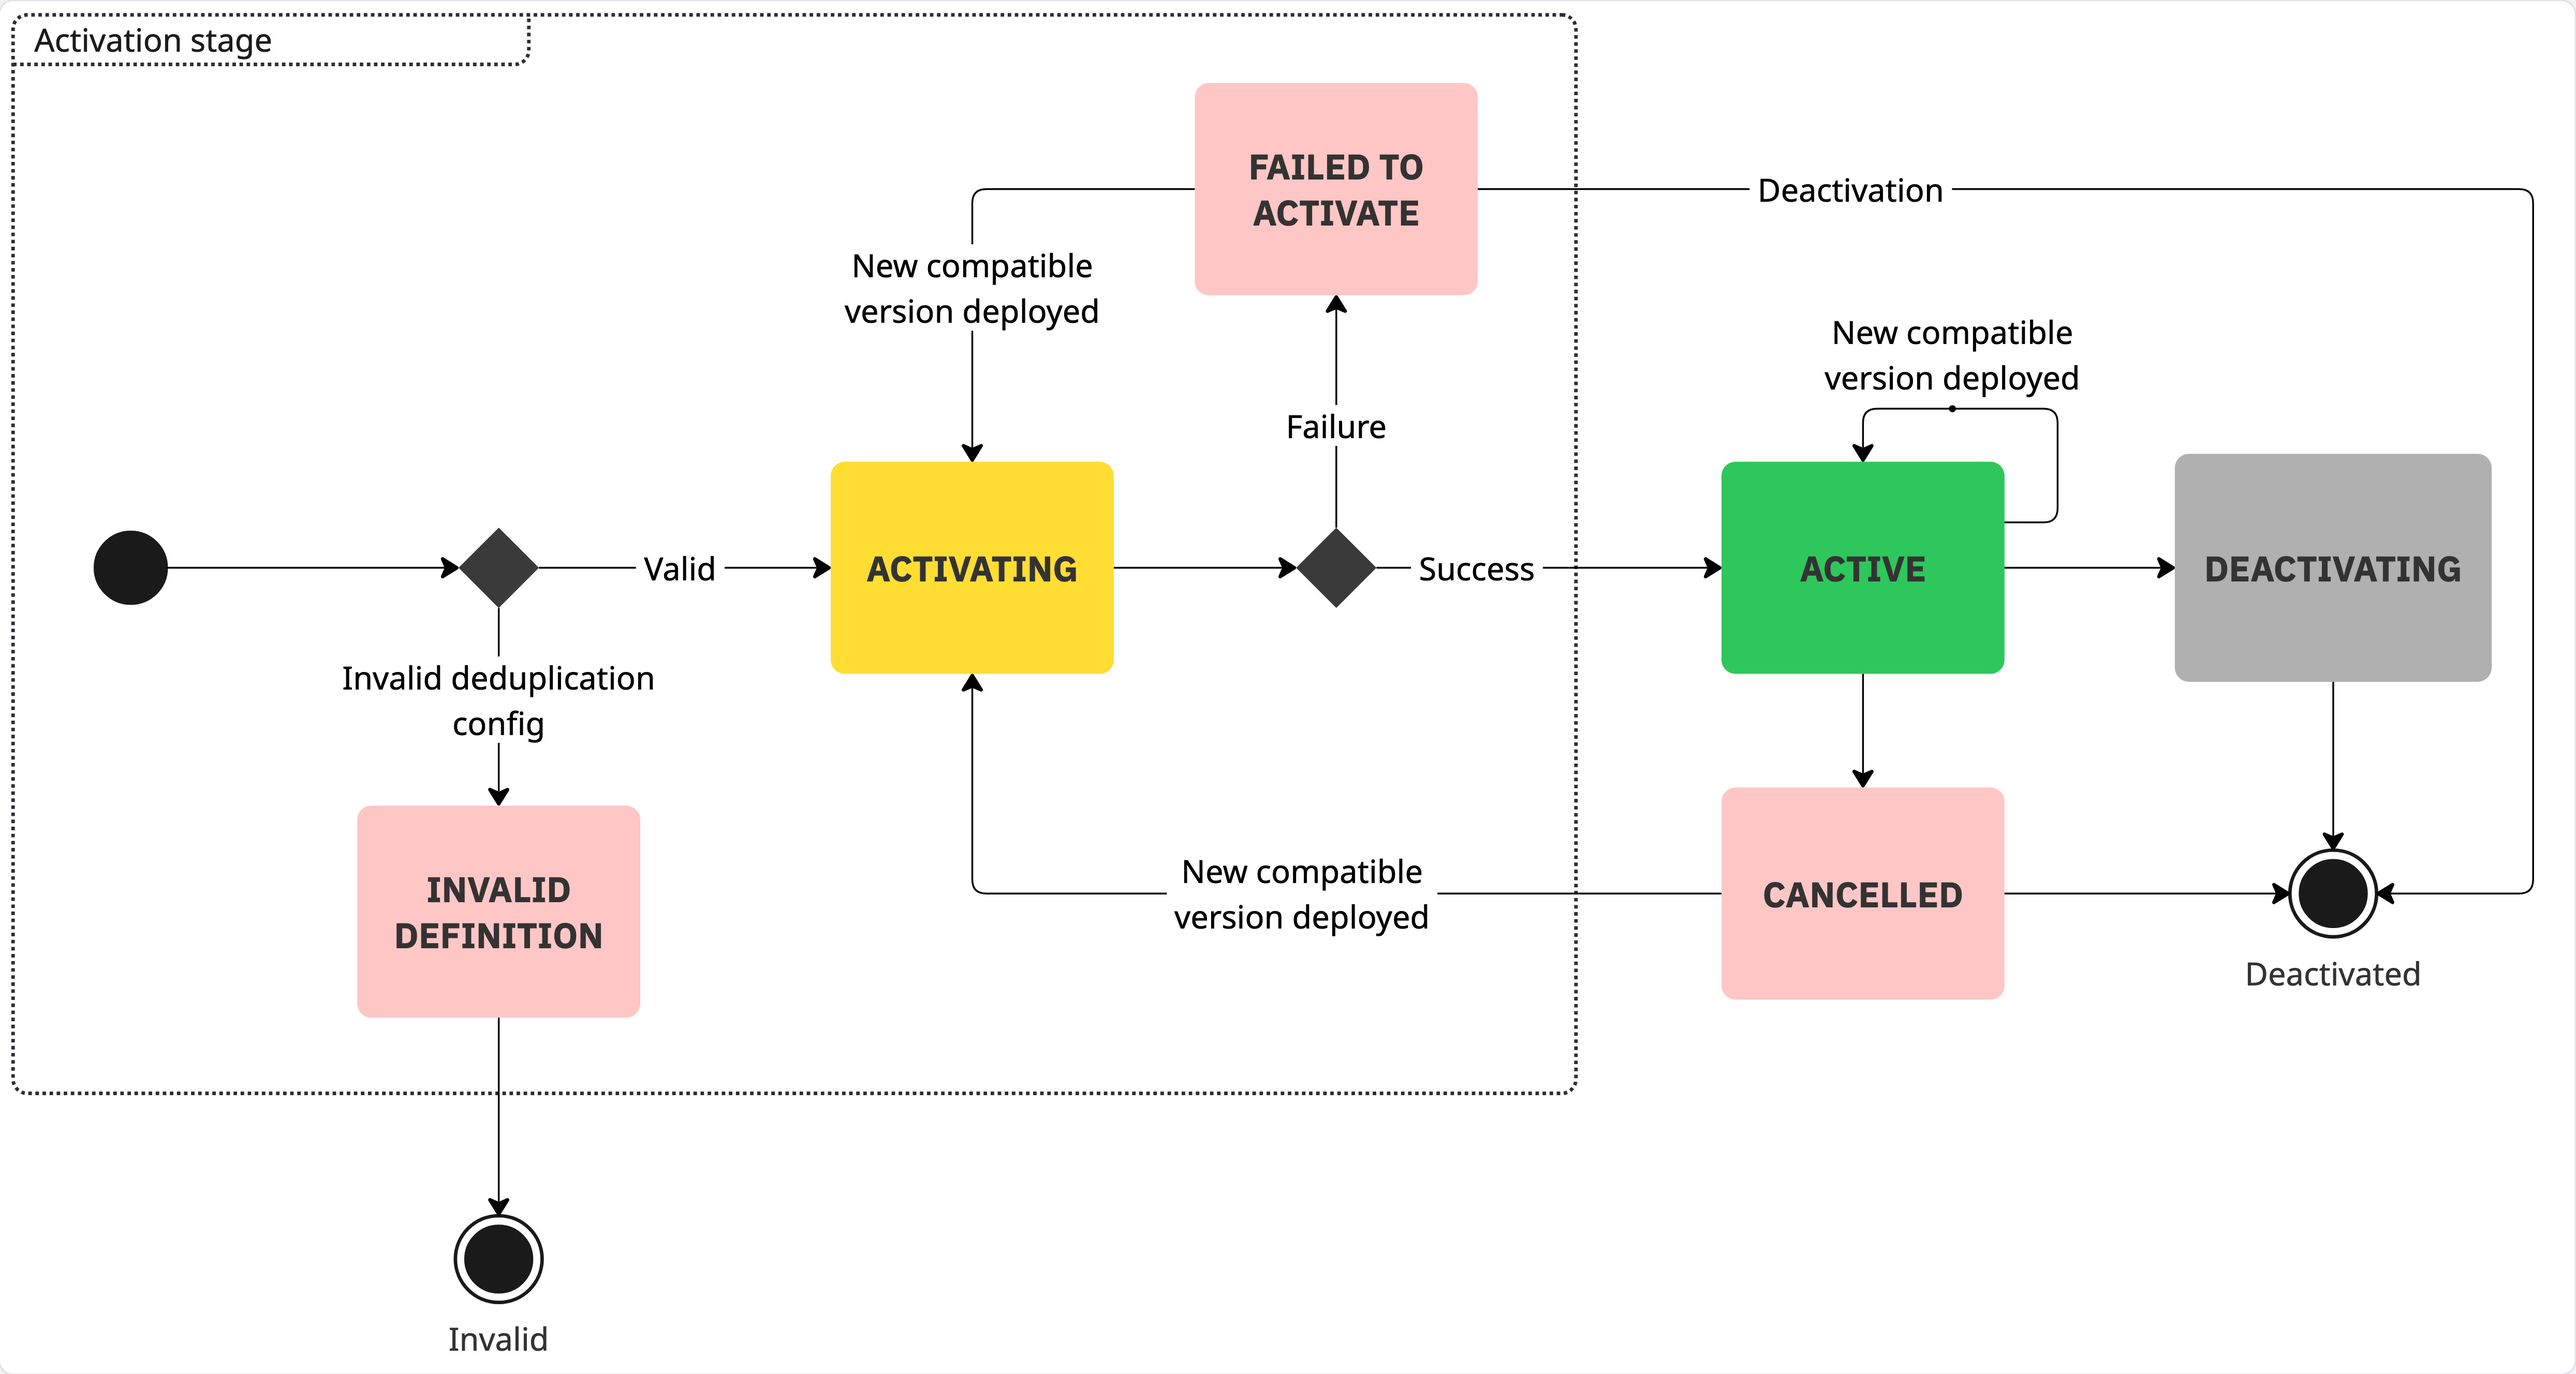
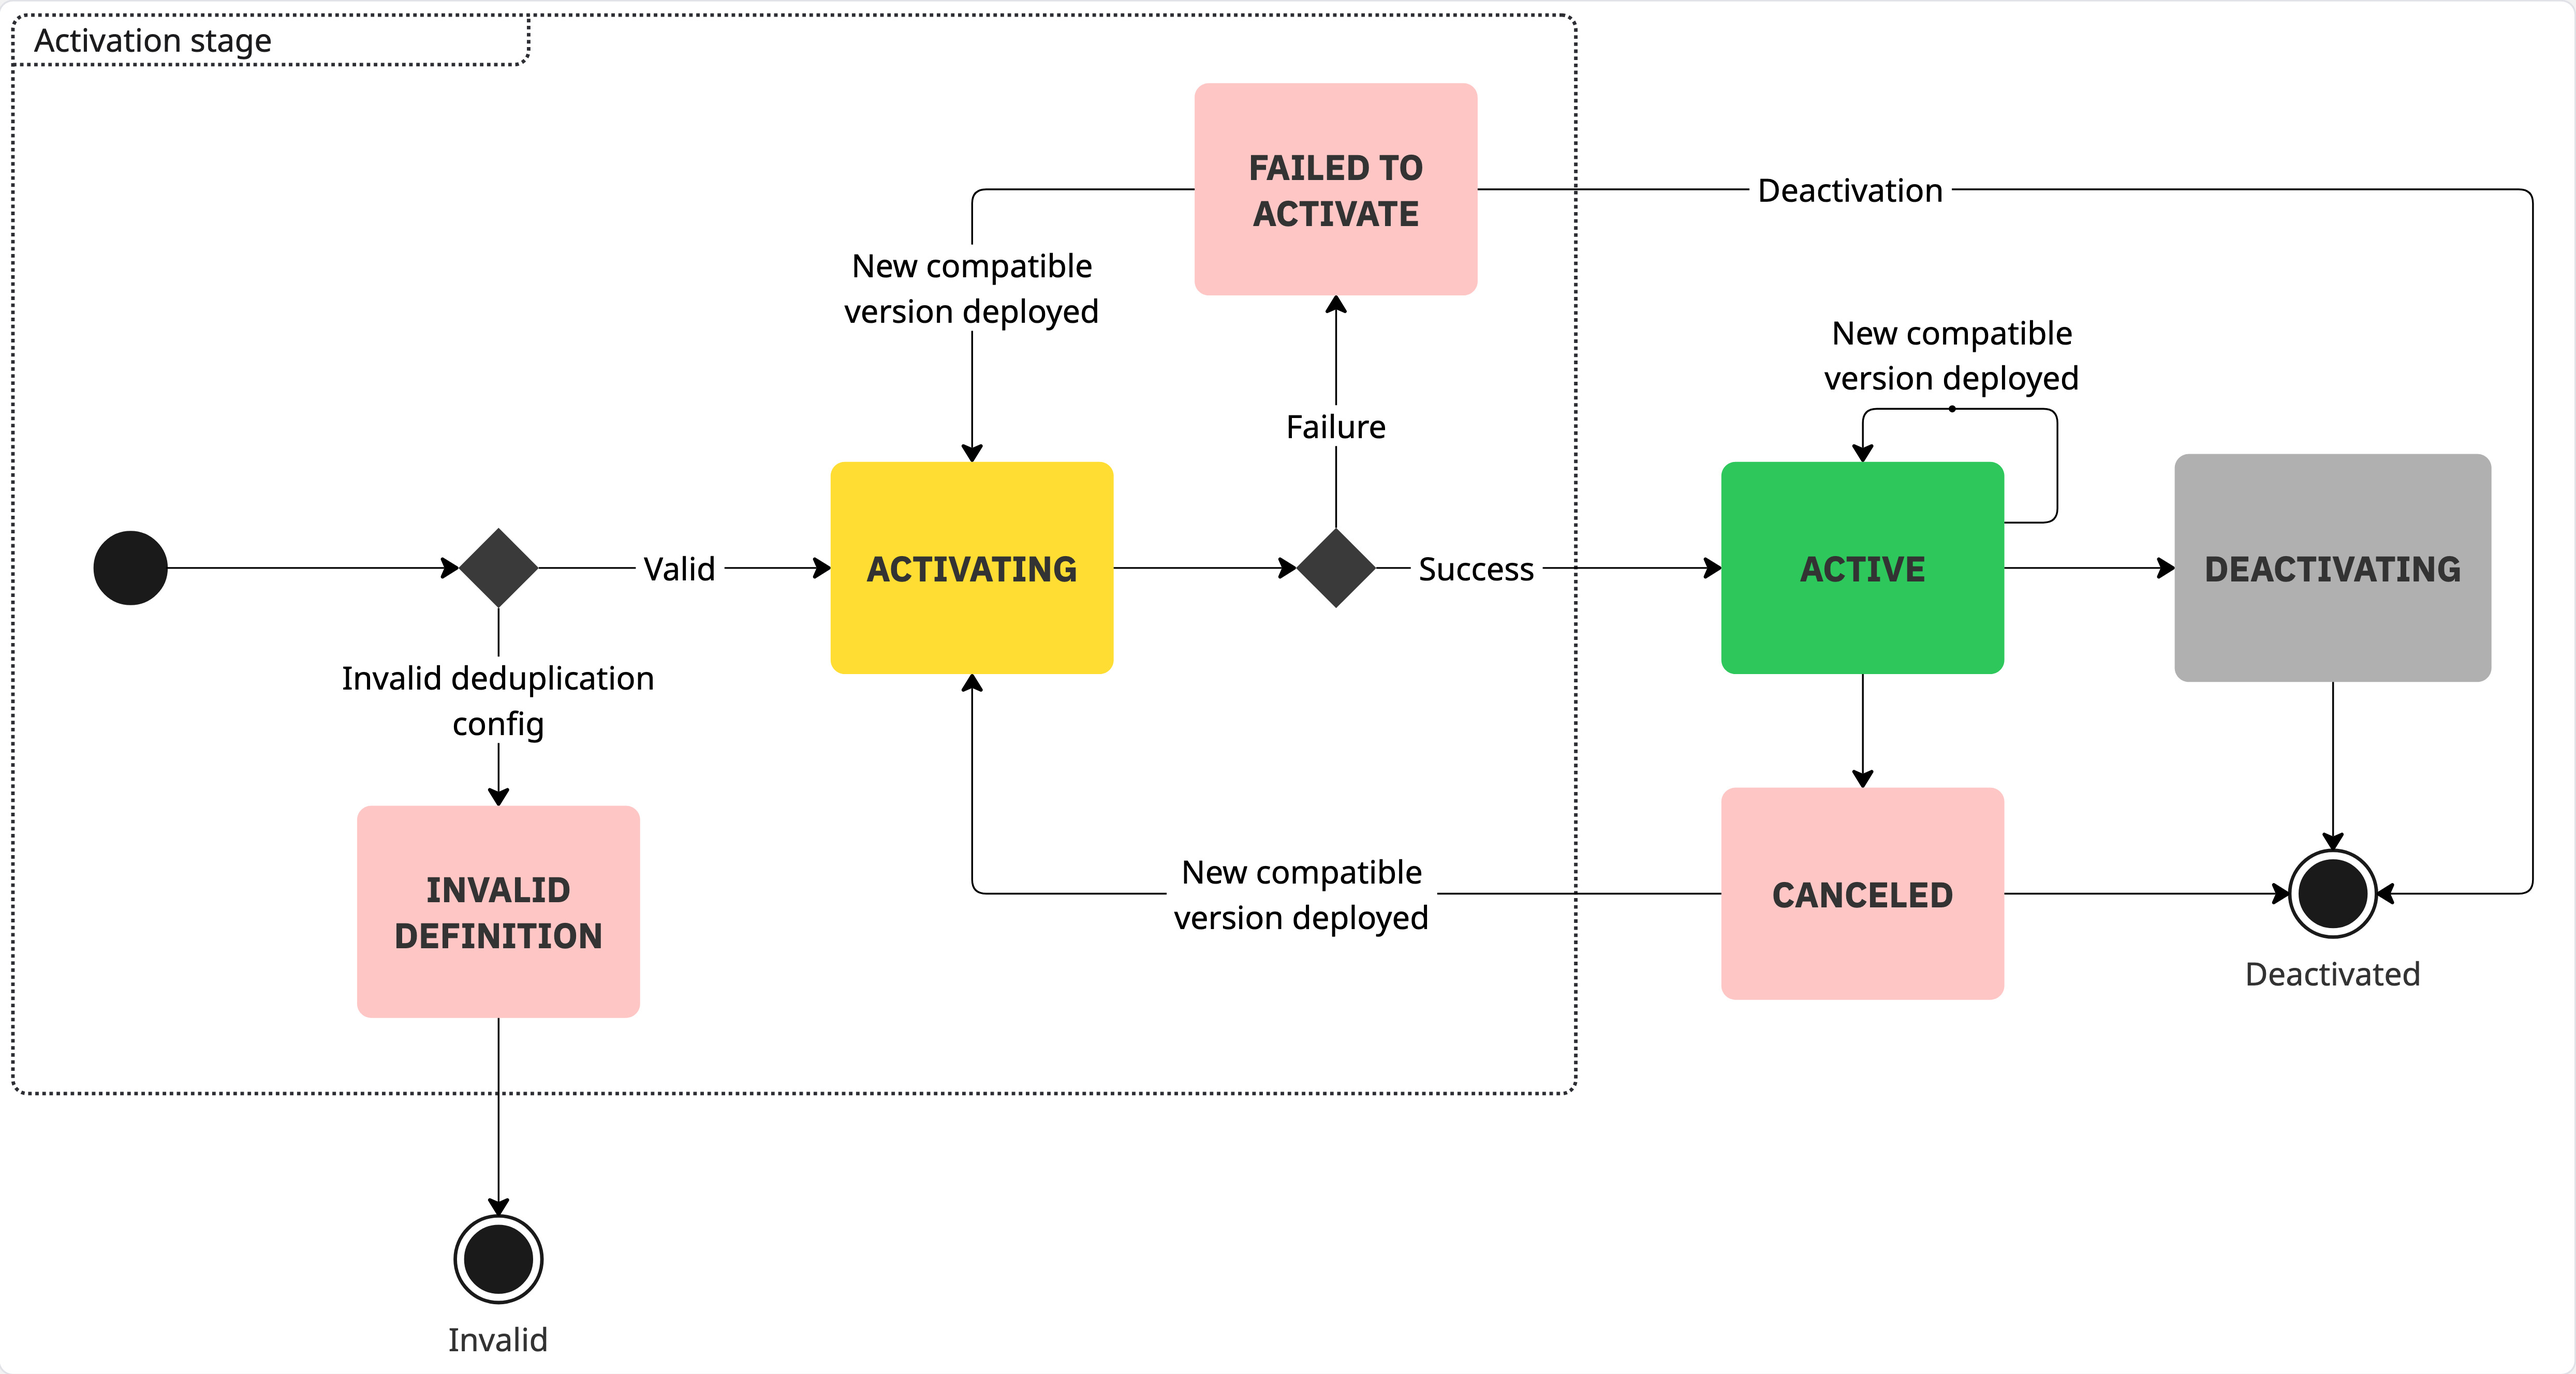
fix: use american spelling for CANCELED

Changed region(s): [[0.6852, 0.625, 0.7786, 0.6562]]

diff --git a/docs/components/connectors/advanced-topics/inbound-lifecycle.md b/docs/components/connectors/advanced-topics/inbound-lifecycle.md
@@ -47,8 +47,8 @@ The lifecycle of an executable starts when the connector runtime reacts to a cha
   This can happen for a number of reasons. Refer to the dedicated [Deduplication](deduplication) guide to learn more.
 - **FAILED TO ACTIVATE**: The runtime attempts to activate an executable. If an activation attempt fails, the executable is saved with the state **FAILED TO ACTIVATE**.
 - **ACTIVE**: When the executable is successfully activated, it will stay in the **ACTIVE** state. This means the executable is ready and listening to external events in the third-party system.
-- **CANCELLED:** The active executable can encounter an unrecoverable error. In this case, it may transition to the **CANCELLED** state. This is rare, and most connectors will have robust error handling with retries to deal with transient errors like temporary network issues.
+- **CANCELED:** The active executable can encounter an unrecoverable error. In this case, it may transition to the **CANCELED** state. This is rare, and most connectors will have robust error handling with retries to deal with transient errors like temporary network issues.
 
-When a new process version is deployed, the connector runtime will check if it is possible to deduplicate inbound connectors in the new version with any of the executables that are already active. If so, it will update the running executable. This will also lead to a restart attempt if the executable was in an inactive state (**CANCELLED** or **FAILED TO ACTIVATE**).
+When a new process version is deployed, the connector runtime will check if it is possible to deduplicate inbound connectors in the new version with any of the executables that are already active. If so, it will update the running executable. This will also lead to a restart attempt if the executable was in an inactive state (**CANCELED** or **FAILED TO ACTIVATE**).
 
 When the active executable is no longer needed (i.e. the process version it originates from is no longer the latest, and there are no active instances waiting on message subscriptions), the runtime will deactivate it.
